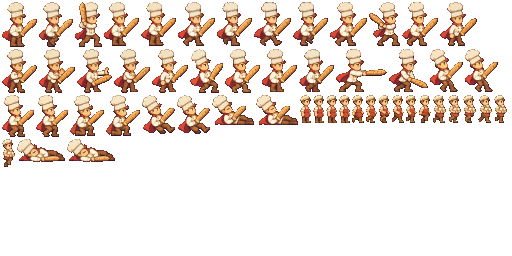
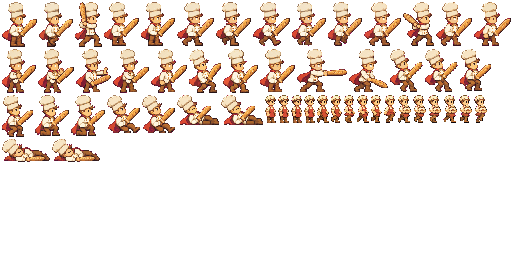
[Fix] 제빵 대장과 견습생 도트 선명도 개선

Changed region(s): [[0.0, 0.0, 1.0, 0.6562], [0.0, 0.0312, 0.0625, 0.1562]]

diff --git a/tools/art/gpt_import.py b/tools/art/gpt_import.py
@@ -308,12 +308,11 @@ def characters():
                 rgba = np.zeros((512, 512, 4), np.uint8)
                 rgba[~mask, :3] = rgb[~mask]
                 rgba[~mask, 3] = 255
-                # Pillow resamples RGBA with premultiplied alpha, so keyed pink cannot bleed in.
+                # Sample the original dot colors directly. Averaging here softens eyes,
+                # outlines and flour marks before Godot can display the pixels.
                 side = round(512 * height)
-                sm = np.array(Image.fromarray(rgba).resize((side, side), Image.Resampling.BOX))
-                sm[..., 3] = np.where(sm[..., 3] >= 128, 255, 0)
-                sm[sm[..., 3] == 0] = 0
-                sm = quantize(sm, 40)
+                sm = np.array(Image.fromarray(rgba).resize((side, side), Image.Resampling.NEAREST))
+                sm = quantize(sm, 32)
                 bounds = bbox(sm)
                 if bounds is None:
                     raise ValueError(f"Empty frame: {path}, cell {i + 1}")
